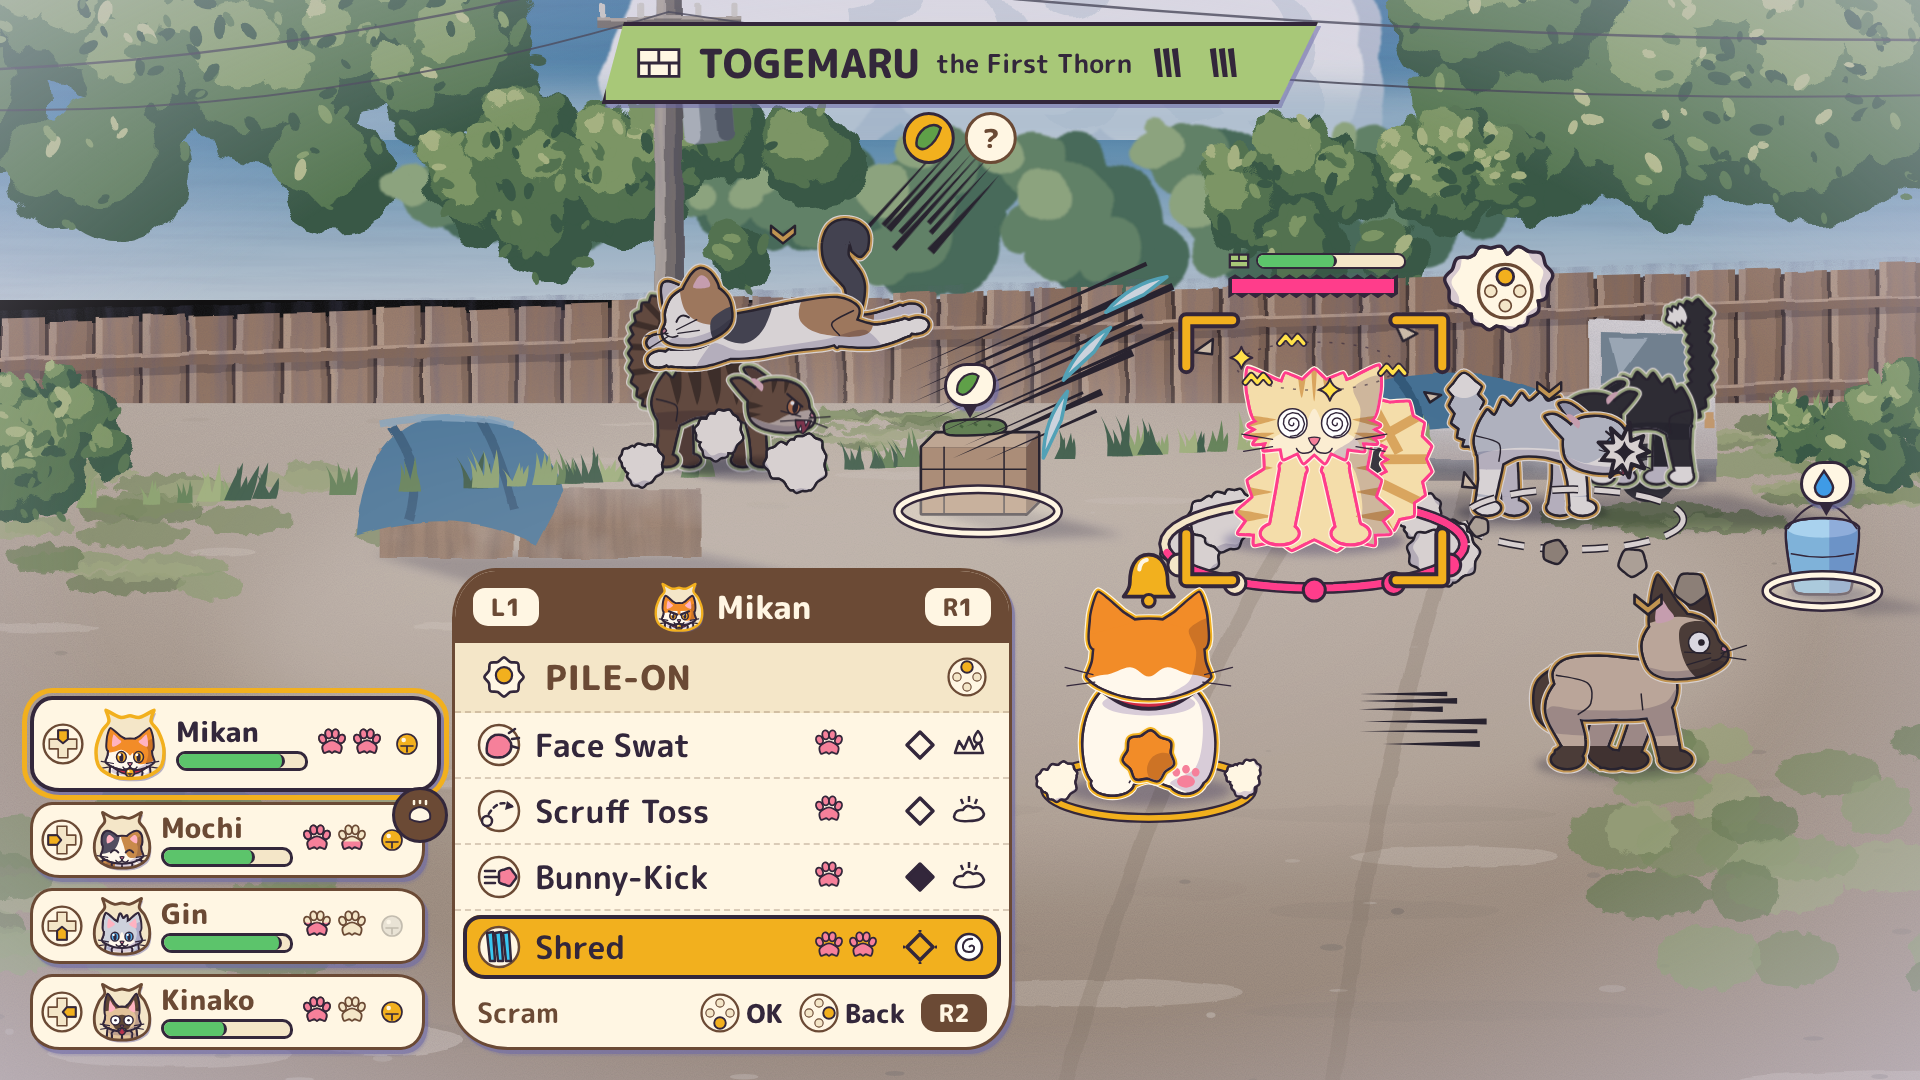
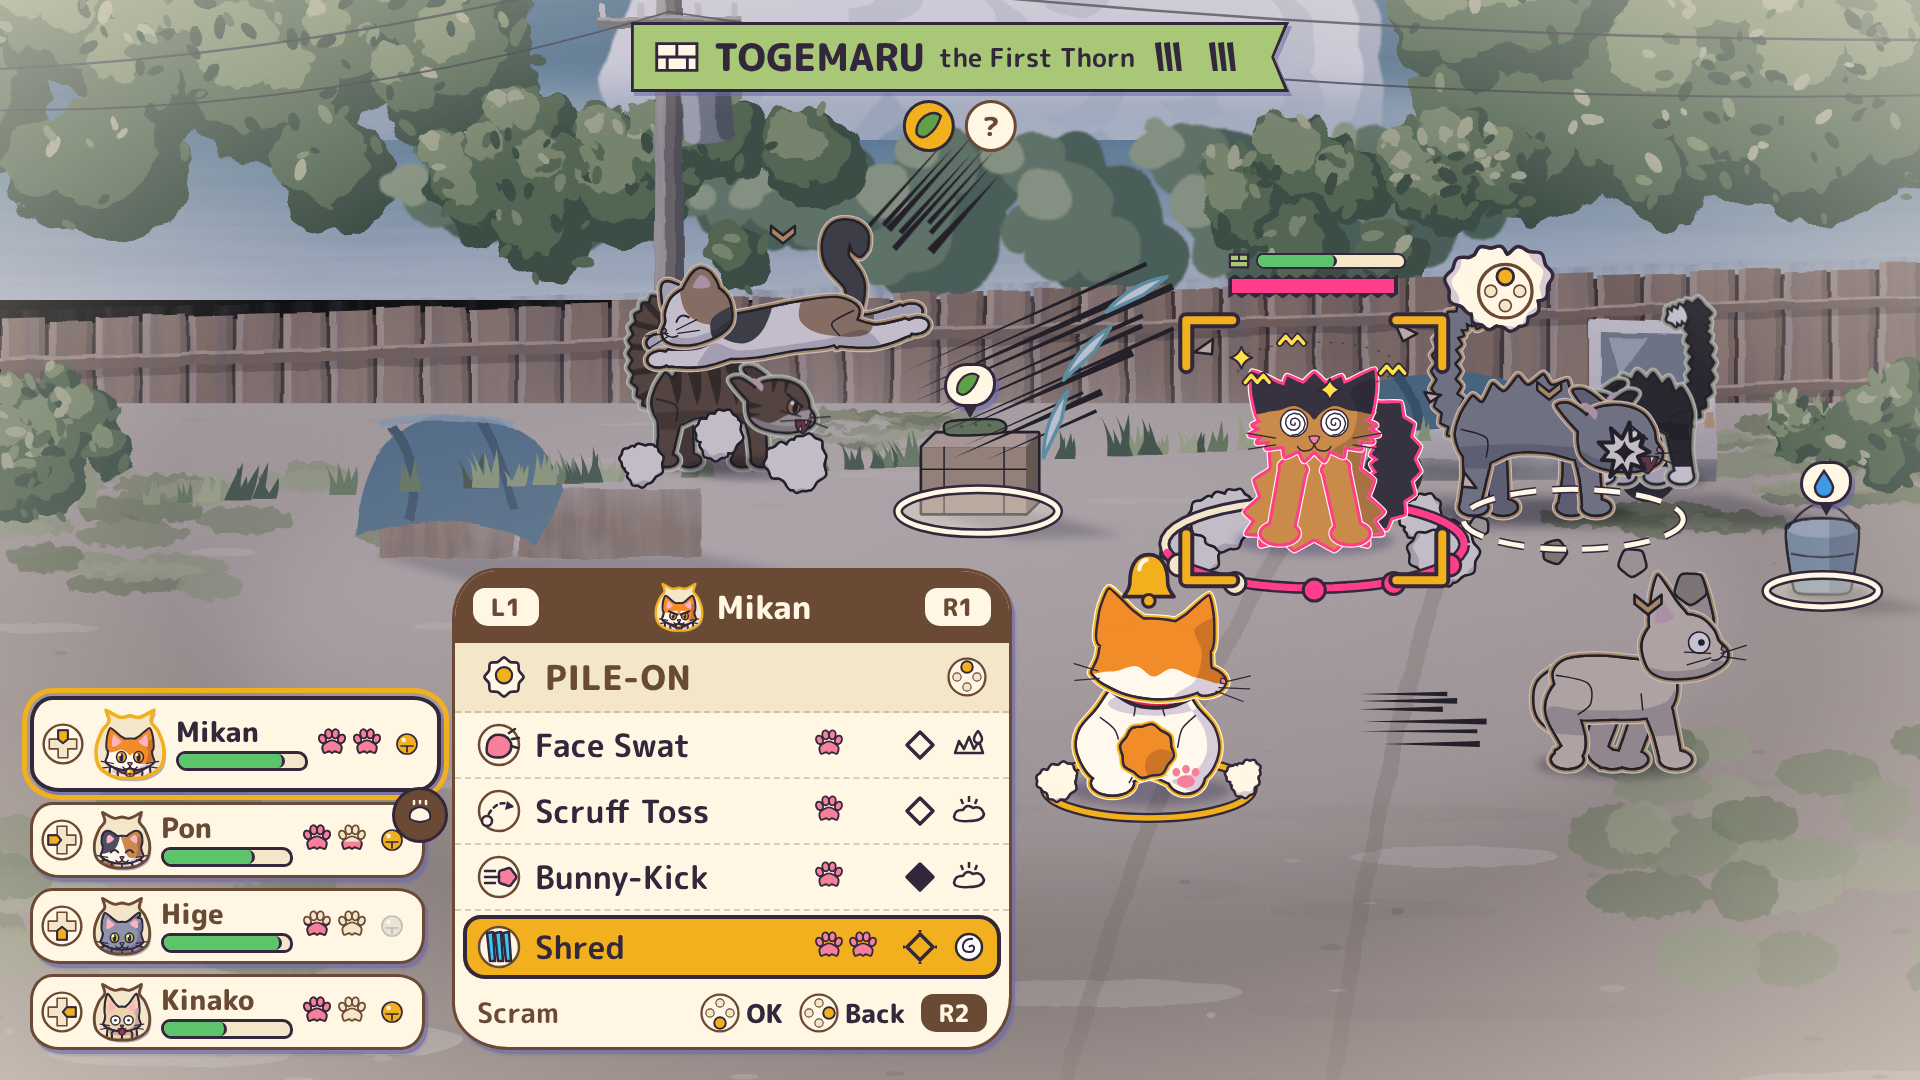
docs: fix pass on combat preview frames
Claude-Session: https://claude.ai/code/session_01K9BzCtu5ca2nRxDXecreHZ

diff --git a/design/previews/03-combat-slow-blink.html b/design/previews/03-combat-slow-blink.html
@@ -37,8 +37,8 @@
   .hints { display: flex; gap: 16px; align-items: center; }
   .hint { display: flex; gap: 6px; align-items: center; font: 800 26px/1 var(--font); color: var(--ink); }
   #ribbon { left: 50%; top: 22px; transform: translateX(-50%); }
-  .idr { display: flex; align-items: center; gap: 16px; height: 74px; padding: 0 74px 0 30px; background: var(--sage); border: 4px solid var(--ink); border-right: 0;
-         clip-path: polygon(22px 0, 100% 0, calc(100% - 40px) 100%, 0 100%); font: 800 40px/1 var(--font); color: var(--ink); }
+  /* name card = the kit ribbon (Clowder colour, Ink text, folded wedge end), sized up for the combat banner */
+  .idr.k-ribbon { height: 64px; font-size: 38px; gap: 14px; padding: 0 46px 0 20px; }
   .idr small { font: 700 26px/1 var(--font); }
   .idr-wrap { filter: drop-shadow(3px 4px 0 rgba(110,106,168,.55)); }
   .stamps { display: flex; gap: 10px; justify-content: center; margin-top: 8px; }
@@ -52,7 +52,7 @@
   .ftag svg { display: block; }
   .ftag::after { content: ''; position: absolute; left: 50%; bottom: -14px; width: 16px; height: 14px; margin-left: -8px; background: var(--ink); clip-path: polygon(0 0, 100% 0, 50% 100%); }
   /* the Slow Blink grade: world saturation -30%, value -10%, cool lavender cast; HUD and the targeted things untouched */
-  .grade { filter: saturate(.62) brightness(.9) hue-rotate(-6deg); }
+  .grade { filter: saturate(.42) brightness(.86) hue-rotate(-8deg); }
 </style>
 </head>
 <body>
@@ -71,6 +71,14 @@ const cs = (d) => 16 / d;
 const s = [];
 const pt = (p) => p[0].toFixed(1) + ' ' + p[1].toFixed(1);
 const ink = C.ink, gold = C.gold;
+
+/* ---- canon slice crew (design/gdd/crew-and-progression.md §3.3 "Look"), as kit cat() options ---- */
+const CREW = {
+  pon: { ...K.CAST.goofball },                                                   // small round calico, half-folded ear, tail up (Goofball)
+  hige: { coat: { base: '#8E93A8', patch: '#5C5F72' }, pattern: 'solid', tail: 'whip', ears: 'standard', build: 'round', scars: ['notch'], eye: 'yellowgreen', carry: 'post', expr: 'neutral' }, // big grey tom, torn ear (Stalwart)
+  kinako: { coat: { base: '#ECD3A8' }, pattern: 'solid', tail: 'whip', ears: 'tall', build: 'long', eye: 'amber', carry: 'comma', expr: 'shock' }, // pale fawn, huge ears, half-crouched (Fraidy)
+  toge: { coat: { base: '#C98A4A', patch: '#37323F' }, pattern: 'saddle', tail: 'plume', ears: 'standard', build: 'long', eye: 'amber', carry: 'flag', expr: 'smug' }, // lean black-and-tan tom (Braggart)
+};
 
 /* ================= painted world: the Lot (seen from the tactical lift) ================= */
 s.push(K.sky({ w: W, h: 300, phase: 'day', zenith: '#4A9FE4', horizon: '#CFE6F0' }));
@@ -156,21 +164,21 @@ const bk = P(6.1, 0, 11.4);
 // --- left: brooder held under a frozen, mid-air Goofball; Fraidy flanking
 s.push(K.cat({ ...K.CAST.brooder, pose: 'hiss', outline: 'sage', x: br.x, y: br.y, scale: cs(14.6) }));
 s.push(K.speedLines({ mode: 'parallel', x: br.x + 300, y: br.y - 300, w: 170, h: 70, angle: 132, count: 8, seed: 4 }));
-s.push(`<g transform="translate(${br.x + 70} ${br.y - 120}) rotate(-30)">${K.cat({ ...K.CAST.goofball, pose: 'side-pounce', outline: 'gold', flip: true, expr: 'happy', x: 0, y: 64, scale: cs(14) * 1.05, shadow: false })}</g>`);
+s.push(`<g transform="translate(${br.x + 70} ${br.y - 120}) rotate(-30)">${K.cat({ ...CREW.pon, pose: 'side-pounce', outline: 'gold', flip: true, expr: 'happy', x: 0, y: 64, scale: cs(14) * 1.05, shadow: false })}</g>`);
 s.push(K.shadow({ x: br.x + 40, y: br.y + 4, rx: 70, ry: 12 }));
 s.push(chevron(br.x + 70, br.y - 236, 0.8));
 s.push(K.speedLines({ mode: 'parallel', x: fr.x - 260, y: fr.y - 80, w: 170, h: 60, angle: 0, count: 6, seed: 8 }));
-s.push(K.cat({ ...K.CAST.fraidy, pose: 'side-walk', outline: 'gold', expr: 'shock', x: fr.x, y: fr.y, scale: cs(9.4) * 0.92 }));
+s.push(K.cat({ ...CREW.kinako, pose: 'side-walk', outline: 'gold', expr: 'shock', x: fr.x, y: fr.y, scale: cs(9.4) * 0.92 }));
 s.push(chevron(fr.x + 30, fr.y - 168, 0.9));
 s.push(dustRing(br.x + 10, br.y + 4, 80, 3, 21, 20));
 
 // --- right: Stalwart vs Schemer
 s.push(K.cat({ ...K.CAST.schemer, pose: 'hiss', outline: 'sage', flip: true, x: sch.x, y: sch.y, scale: cs(13.6) }));
-s.push(K.cat({ ...K.CAST.stalwart, pose: 'hiss', outline: 'gold', expr: 'angry', x: stw.x, y: stw.y, scale: cs(12.6) }));
+s.push(K.cat({ ...CREW.hige, pose: 'hiss', outline: 'gold', expr: 'angry', x: stw.x, y: stw.y, scale: cs(12.6) * 1.1 }));
 s.push(K.impactBurst({ x: (sch.x + stw.x) / 2 + 36, y: sch.y - 30, r: 26, points: 9, star: true, seed: 6 }));
 s.push(chevron(stw.x + 16, stw.y - 128, 0.8));
-// Schemer's yellow telegraph, frozen mid-windup (Hiss it): decal grows from the attacker toward Gin
-s.push(K.telegraph({ kind: 'yellow', x: stw.x + 40, y: stw.y + 6, rx: 110, ry: 30 }));
+// Schemer's yellow telegraph, frozen mid-windup (Hiss it): decal grows from the attacker toward Hige
+
 
 // --- Togemaru, Frazzled and held: dust and fur wedges frozen in the air from Frame 02's hit
 s.push(dustRing(tg.x + 10, tg.y + 14, 130, 5, 41, 22));
@@ -183,6 +191,7 @@ s.push(K.speedLines({ mode: 'parallel', x: tg.x - 420, y: tg.y - 170, w: 300, h:
 // --- props + bucket
 s.push(K.castShadow(`M${bk[0] - 30} ${bk[1] - 2}L${bk[0] + 34} ${bk[1] - 2}L${bk[0] + 120} ${bk[1] + 18}L${bk[0] + 40} ${bk[1] + 22}Z`, 0.34));
 
+s.push(K.prop({ kind: 'bucket', x: bk[0], y: bk[1], scale: 1.15 }));   // props take the grade; only their highlight halo is exempt
 const WORLD = s.join('');
 
 /* ================= un-graded overlays: highlighted props, target cursor, Frazzled ring, Pile-On prompt ================= */
@@ -191,7 +200,7 @@ const o = [];
 const halo = (x, y, rx, ry) => `<ellipse cx="${x}" cy="${y}" rx="${rx}" ry="${ry}" fill="${C.cream}" fill-opacity="0.35" stroke="${ink}" stroke-width="10"/><ellipse cx="${x}" cy="${y}" rx="${rx}" ry="${ry}" fill="none" stroke="${C.cream}" stroke-width="5"/>`;
 const cr = P(-1.25, 0, 13.4);
 o.push(halo(cr[0] + 4, cr[1] - 2, 80, 22));
-o.push(K.prop({ kind: 'bucket', x: bk[0], y: bk[1], scale: 1.15 }));
+o.push(K.telegraph({ kind: 'yellow', x: stw.x + 40, y: stw.y + 6, rx: 110, ry: 30 }));   // telegraph decals are gameplay info: ungraded
 o.push(halo(bk[0], bk[1] - 2, 56, 16));
 
 // Frazzled ring: countdown over the 6 s window (held at 5%), 5 pips on a Captain; 3 still lit = an early, big Pile-On
@@ -202,7 +211,7 @@ o.push(halo(bk[0], bk[1] - 2, 56, 16));
   for (let i = 0; i < 5; i++) { const a = Math.PI * (0.15 + i * 0.175), px = x + Math.cos(a) * (rx + 2), py = y + Math.sin(a) * (ry + 2); o.push(`<circle cx="${px.toFixed(1)}" cy="${py.toFixed(1)}" r="11" fill="${i < 3 ? C.magenta : C.recessed}" stroke="${ink}" stroke-width="3"/>`); }
 }
 // the hovered target stays in full colour (the grade drops off the cat under the cursor)
-o.push(K.cat({ ...K.CAST.braggart, pose: 'frazzled', x: tg.x, y: tg.y, scale: cs(12.6) * 1.36, lw: 3 }));
+o.push(K.cat({ ...CREW.toge, pose: 'frazzled', x: tg.x, y: tg.y, scale: cs(12.6) * 1.36, lw: 3 }));
 o.push(K.frazzleOrbit({ x: tg.x + 2, y: tg.y - 176, r: 80 }));
 // target cursor: four Bell-Gold corner brackets snapping around the Frazzled cat + a paw pip
 { const x = tg.x, y = tg.y - 92, w = 128, h = 130, L = 46; let g = '';
@@ -251,7 +260,7 @@ const pileGlyph = `<svg width="54" height="46" viewBox="-30 -25 60 50"><path d="
 
 const eb = [tg.x - 86, tg.y - 290];
 const hud = `
-  <div class="k-abs" id="ribbon"><div class="idr-wrap"><div class="idr">${brick}TOGEMARU <small>the First Thorn</small>${claw}${claw}</div></div>
+  <div class="k-abs" id="ribbon"><div class="idr-wrap"><span class="k-ribbon k-ribbon--sage idr">${brick}TOGEMARU <small>the First Thorn</small>${claw}${claw}</span></div>
     <div class="stamps"><span class="stamp stamp--lit">${cuke(34)}</span><span class="stamp">?</span></div></div>
   <div class="k-abs ebar" style="left:${eb[0]}px; top:${eb[1]}px">
     <div class="ebar-row"><svg width="22" height="18" viewBox="-12 -9 24 18"><path d="M-10 -7h20v14h-20z" fill="${C.sage}" stroke="${ink}" stroke-width="2.5"/><path d="M-10 0h20M0 -7v7" stroke="${ink}" stroke-width="2"/></svg><div class="k-gauge" style="--v:52%"><i></i></div></div>
@@ -261,9 +270,9 @@ const hud = `
   <div class="ftag" style="left:${bk[0] - 22}px; top:${bk[1] - 132}px">${drop}</div>
   <div class="k-abs" id="plates">
     ${plate({ ctrl: true, sel: true, dir: 'n', name: 'Mikan', cat: K.CAST.mikan, nerve: 82, paws: [100, 100], bell: true })}
-    ${plate({ dir: 'w', name: 'Mochi', cat: K.CAST.goofball, nerve: 70, paws: [100, 45], bell: true, q: true })}
-    ${plate({ dir: 's', name: 'Gin', cat: K.CAST.stalwart, nerve: 91, paws: [60, 0], bell: false })}
-    ${plate({ dir: 'e', name: 'Kinako', cat: K.CAST.fraidy, nerve: 48, paws: [100, 0], bell: true })}
+    ${plate({ dir: 'w', name: 'Pon', cat: CREW.pon, nerve: 70, paws: [100, 45], bell: true, q: true })}
+    ${plate({ dir: 's', name: 'Hige', cat: CREW.hige, nerve: 91, paws: [60, 0], bell: false })}
+    ${plate({ dir: 'e', name: 'Kinako', cat: CREW.kinako, nerve: 48, paws: [100, 0], bell: true })}
   </div>
   <div class="k-abs k-panel" id="menu">
     <div class="m-head"><span class="m-sh">L1</span><span class="who">${K.ui.portrait({ cat: Object.assign({}, K.CAST.mikan, { expr: 'angry' }), size: 52, ring: gold })}Mikan</span><span class="m-sh">R1</span></div>
@@ -276,8 +285,8 @@ const hud = `
   </div>`;
 
 document.getElementById('stage').innerHTML = K.svg(W, H, `<g class="grade">${WORLD}</g>`
-  + `<rect width="${W}" height="${H}" fill="#B9B4E6" opacity="0.2" style="mix-blend-mode:multiply"/>`
-  + `<rect width="${W}" height="${H}" fill="url(#vig)"/><radialGradient id="vig" cx="50%" cy="50%" r="75%"><stop offset="0.6" stop-color="#DCD8F2" stop-opacity="0"/><stop offset="1" stop-color="#DCD8F2" stop-opacity="0.55"/></radialGradient>`
+  + `<rect width="${W}" height="${H}" fill="#ACA6E6" opacity="0.32" style="mix-blend-mode:multiply"/>`
+  + `<rect width="${W}" height="${H}" fill="url(#vig)"/><radialGradient id="vig" cx="50%" cy="50%" r="75%"><stop offset="0.55" stop-color="#FFF6E3" stop-opacity="0"/><stop offset="1" stop-color="#FFF6E3" stop-opacity="0.6"/></radialGradient>`
   + o.join(''), 'class="k-world"') + hud;
 </script>
 </body>
